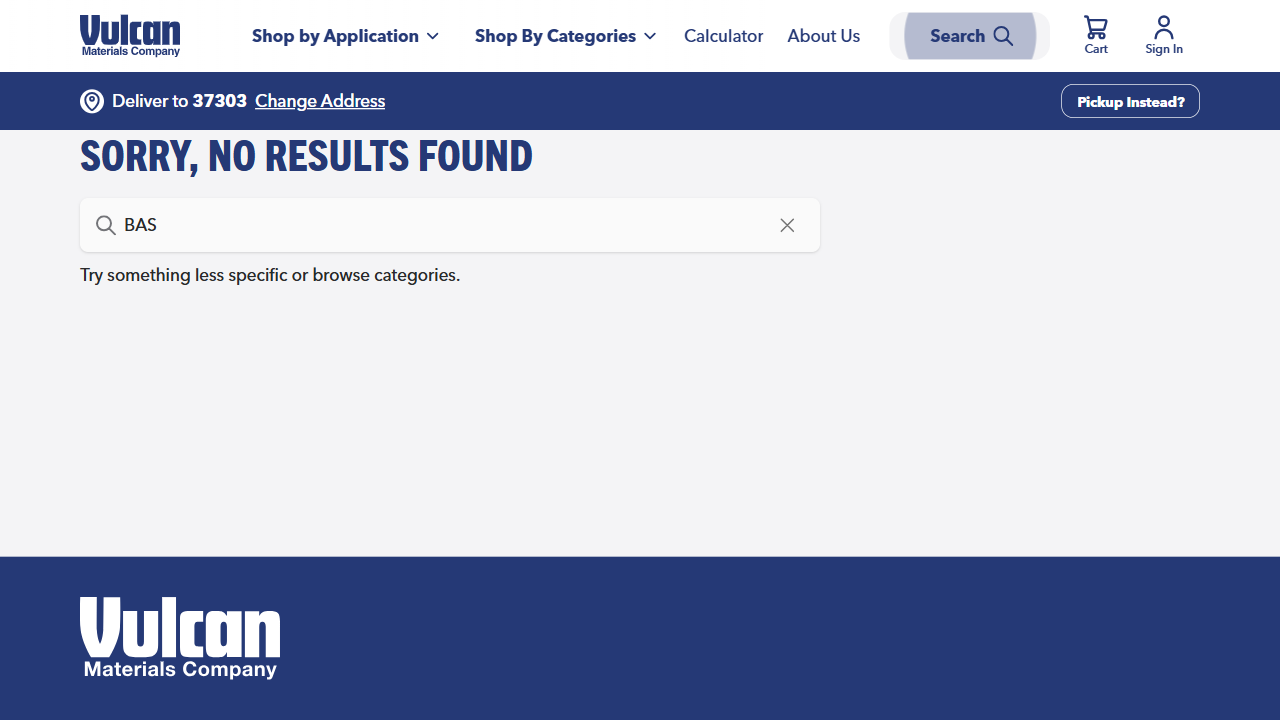
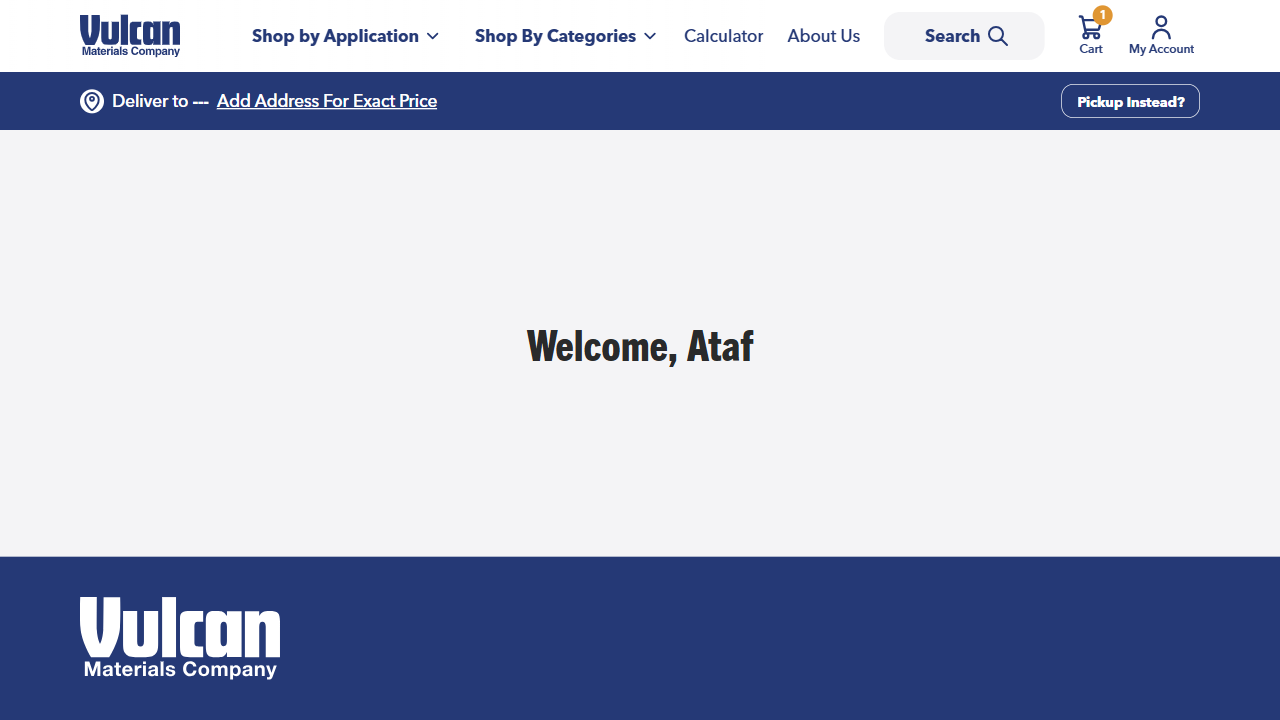
Login and Logout functionality

diff --git a/pageobjects/LoginPage.js b/pageobjects/LoginPage.js
@@ -1,28 +1,48 @@
 class LoginPage {
 
-constructor(page)
-{
-    this.page = page;
-    this.signInbutton= page.locator("#submit");
-    this.userName = page.locator("#username");
-    this.password = page.locator("#password");
+    constructor(page) {
+        this.page = page;
+
+        this.signInHeaderBtn = page.locator('span:has-text("Sign In")');
+        this.emailInput = page.locator('input[name="email"]');
+        this.passwordInput = page.locator('input[name="password"]');
+        this.signInSubmitBtn = page.locator('button:has-text("Sign In")');
+
+        this.myAccountBtn = page.locator('span:has-text("my account")');
+        this.signOutBtn = page.locator('button:has-text("Sign Out")');
+    }
+
+    async goTo() {
+        await this.page.goto("https://qa-shop.vulcanmaterials.com/");
+        await this.page.waitForLoadState("networkidle");
+    }
+
+    async clickSignInCTA() {
+        await this.signInHeaderBtn.click();
+    }
+
+    async enterEmail(email) {
+        await this.emailInput.fill(email);
+    }
+
+    async enterPassword(password) {
+        await this.passwordInput.fill(password);
+    }
+
+    async submitLogin() {
+        await this.signInSubmitBtn.click();
+        await this.page.waitForLoadState("networkidle");
+    }
+
+    async openMyAccount() {
+        await this.myAccountBtn.click();
+    }
+
+    async signOut() {
+        await this.signOutBtn.click();
+        await this.page.waitForLoadState("networkidle");
+    }
 
 }
 
-async goTo()
-{
-    await this.page.goto("https://practicetestautomation.com/practice-test-login/");
-    await this.page.waitForLoadState('networkidle');
-}
-
-async validLogin(username,password)
-{
-    await  this.userName.fill(username);
-     await this.password.fill(password);
-     await this.signInbutton.click();
-     await this.page.waitForLoadState('networkidle');
-
-}
-
-}
-module.exports = {LoginPage};
+module.exports = { LoginPage };

diff --git a/Ecomm/features/step_definitions/loginSteps.js b/Ecomm/features/step_definitions/loginSteps.js
@@ -1,0 +1,39 @@
+const { Given, When, Then } = require("@cucumber/cucumber");
+const { expect } = require("@playwright/test");
+const { LoginPage } = require("../../../pageobjects/LoginPage");
+
+let loginPage;
+
+Given("I navigate to the Vulcan Shop application", async function () {
+    loginPage = new LoginPage(this.page);
+    await loginPage.goTo();
+});
+
+When("I click on the Sign In button", async function () {
+    await loginPage.clickSignInCTA();
+});
+
+When("I enter email {string}", async function (email) {
+    await loginPage.enterEmail(email);
+});
+
+When("I enter password {string}", async function (password) {
+    await loginPage.enterPassword(password);
+});
+
+When("I submit the Sign In form", async function () {
+    await loginPage.submitLogin();
+});
+
+Then("I should see {string}", async function (expectedText) {
+    const welcomeText = this.page.locator('h2:has-text("Welcome,")');
+    await expect(welcomeText).toContainText(expectedText);
+});
+
+When("I click on My Account", async function () {
+    await loginPage.openMyAccount();
+});
+
+When("I click on Sign Out", async function () {
+    await loginPage.signOut();
+});
